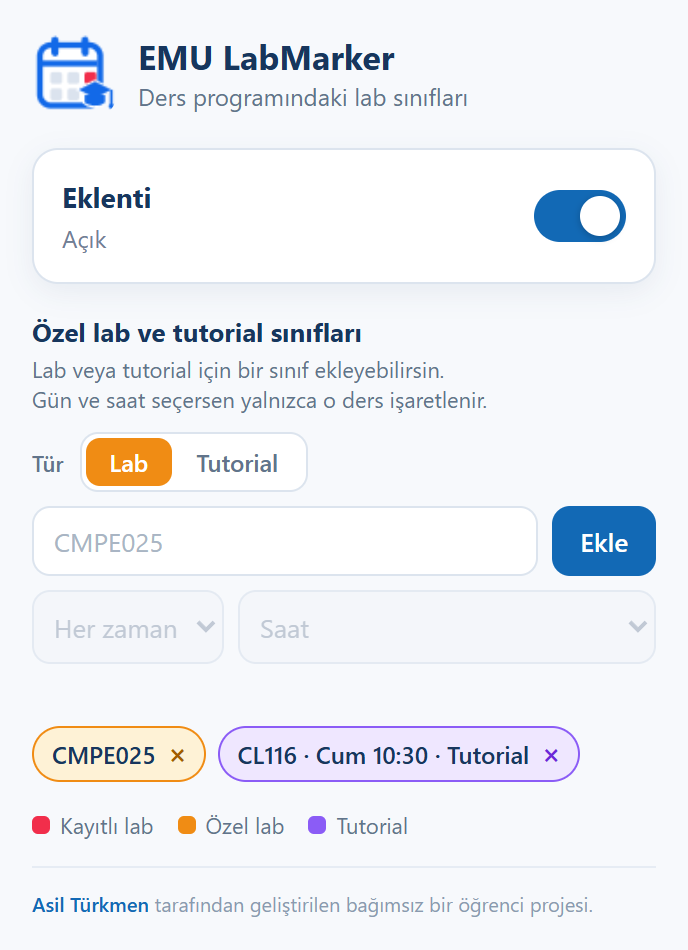
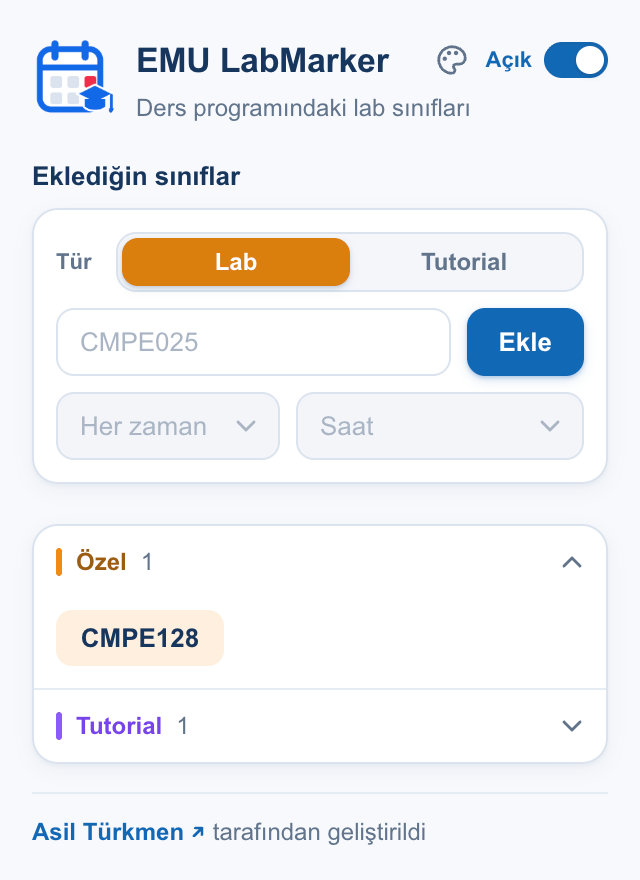
README görselleri ve metni güncel sürüme göre yenilendi

diff --git a/README.md b/README.md
@@ -26,7 +26,7 @@
 <br>
 
 <p align="center">
-  <img src="docs/screenshot.png" alt="Lab dersleri kırmızı, kullanıcının eklediği sınıflar turuncu işaretlenmiş EMU ders programı" width="880">
+  <img src="docs/screenshot.png" alt="EMU ders programı: kayıtlı lab dersleri kırmızı LAB SINIFI, eklenen sınıf turuncu ÖZEL, eklenen tutorial mor TUTORIAL etiketiyle işaretlenmiş" width="880">
 </p>
 
 <br>
@@ -37,6 +37,7 @@ Bu eklentiyi kendi ders programımda lab sınıflarını ayırt etmek için yazd
 LabMarker, kayıtlı lab sınıflarındaki dersleri kırmızı çerçeve ve `LAB SINIFI`
 etiketiyle işaretler. İşaretleme, dersin adına veya türüne değil, oda koduna dayanır.
 Kendi eklediğin lab ve tutorial kayıtları da ayrı renklerde gösterilir.
+Ders programının altındaki kısa açıklama, her etiketin ne anlama geldiğini gösterir.
 
 ## Kurulum
 
@@ -67,7 +68,7 @@ Sonra ders programı sayfasını bir kez yenile. Bu yolla kurulan sürüm kendil
 
 ## Kullanım
 
-<img src="docs/popup.png" align="right" width="250" alt="Eklenti penceresi: aç/kapa anahtarı ve eklediğin sınıflar">
+<img src="docs/popup.png" align="right" width="250" alt="Eklenti penceresi: başlıkta renk düğmesi ve aç/kapa anahtarı, sınıf ekleme formu, türe göre gruplanmış kayıtlar">
 
 Eklenti, ders programı sayfasını yeniledikten sonra ek ayar gerektirmeden çalışır.
 Araç çubuğundaki simgesi ders programı sayfasında renkli, diğer sayfalarda gridir.
@@ -80,6 +81,8 @@ Değişiklik için sayfayı yenilemen gerekmez.
 yazıp **Ekle** düğmesine tıkla. Eklediğin sınıflar turuncu renkte ve `ÖZEL`
 etiketiyle gösterilir. Kayıtlar türüne göre gruplanır; grup satırına tıklayınca açılır.
 Bir kaydı kaldırmak için üstüne gelince çıkan **×** düğmesine tıkla.
+Aynı sınıfa birden fazla gün veya saat eklediysen sınıfa tıkla; kayıtlar bir listede
+açılır ve her birini oradan kaldırabilirsin.
 
 **Belirli bir dersi işaretleme.** Aynı sınıftaki derslerden yalnızca birini işaretlemek
 için eklenti penceresini ders programı sayfasında aç ve oda kodunu yaz.
@@ -91,9 +94,12 @@ Gün seçmeden eklersen o sınıftaki tüm dersler işaretlenir.
 **Tutorial ekleme.** Formdaki **Tür** alanından **Tutorial** seçeneğini seç.
 Bu kayıtlar mor renkte ve `TUTORIAL` etiketiyle gösterilir.
 
+<img src="docs/popup-colors.png" align="right" width="250" alt="Renkler ekranı: kayıtlı lab, özel ve tutorial için sekizer renk ve ders programı önizlemesi">
+
 **Renkler.** Başlıktaki palet düğmesinden kayıtlı lab, özel ve tutorial işaretleri için
 sekiz renkten birini seçebilirsin. Seçtiğin renk ders programında hemen görünür.
-Seçim yapmazsan varsayılan renkler kullanılır.
+Seçim yapmazsan varsayılan renkler kullanılır. Ekranın altındaki önizleme,
+seçtiğin renklerin ders programında nasıl görüneceğini gösterir.
 
 <br clear="all">
 
@@ -114,7 +120,7 @@ tarayıcı içinde okur ve işaretler. Ders programı ve ayarların bir sunucuya
 seçtiğin işaret renklerini tarayıcında saklamak için kullanılır. Ayrıntılar [gizlilik politikasında](PRIVACY.md).
 
 <details>
-<summary>iPhone ve iPad için Safari sürümünü derleme</summary>
+<summary>iPhone için Safari sürümünü derleme</summary>
 
 <br>
 
